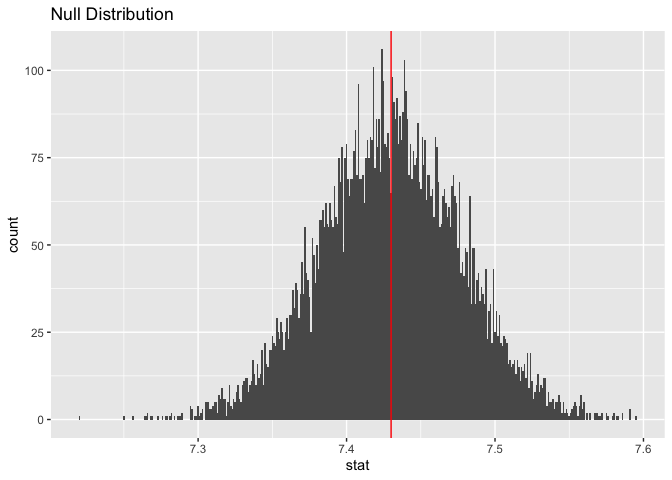
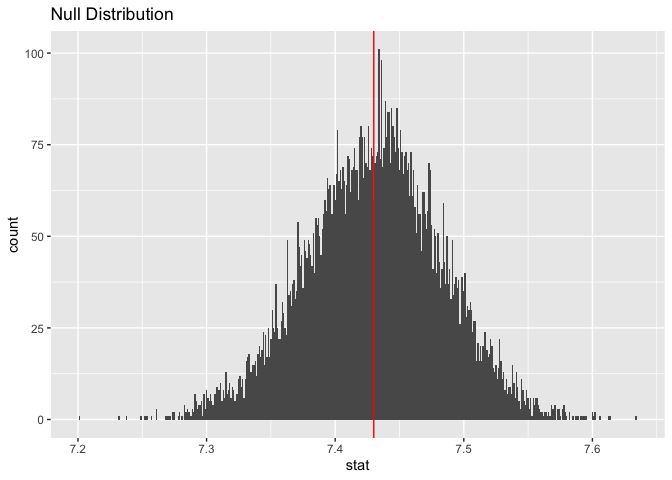
up to 7

diff --git a/lab-12.md b/lab-12.md
@@ -112,7 +112,7 @@ samples easily. The observations are independent, I think.
 
 ``` r
 set.seed(1232)
-boot_df <- data %>% 
+boot_df <- ncbirths_white %>% 
   specify(respons = weight) %>% 
   hypothesize(null = "point", mu = 7.43) %>% 
   generate(reps = 10000, type  = "bootstrap") %>% 
@@ -123,7 +123,7 @@ glimpse(boot_df)
     ## Rows: 10,000
     ## Columns: 2
     ## $ replicate <int> 1, 2, 3, 4, 5, 6, 7, 8, 9, 10, 11, 12, 13, 14, 15, 16, 17, 1…
-    ## $ stat      <dbl> 7.53365, 7.47945, 7.37724, 7.37932, 7.50480, 7.38918, 7.5552…
+    ## $ stat      <dbl> 7.400042, 7.356289, 7.462143, 7.377507, 7.431695, 7.368221, …
 
 Now, let’s plot the graph.
 
@@ -136,7 +136,8 @@ ggplot(data = boot_df, mapping = aes(x = stat)) +
 
 ![](lab-12_files/figure-gfm/plotdistr-1.png)<!-- -->
 
-It seems to be pretty normally distributed, and centered around 7.43.
+It seems to be pretty normally distributed (or a little left skewed),
+and centered around 7.43.
 
 ``` r
 boot_df %>% 
@@ -147,7 +148,7 @@ boot_df %>%
     ## # A tibble: 1 × 2
     ##   lower uppter
     ##   <dbl>  <dbl>
-    ## 1  7.34   7.52
+    ## 1  7.32   7.53
 
 ``` r
 boot_df %>% 
@@ -157,13 +158,49 @@ boot_df %>%
     ## # A tibble: 1 × 1
     ##   p_value
     ##     <dbl>
-    ## 1  0.0002
+    ## 1  0.0007
 
-It seems like the p-value is 0.0002. There is very few instances in the
+It seems like the p-value is 0.0007. There is very few instances in the
 null distribution that we see a difference as large as the one we
 observed in the current dataset. The null’s mean is 7.43, the observed
 mean is 7.25, which is a 0.18 difference. In our 10,000 bootstrap
-results, there was not one instance where they had a bigger than 0.18
+results, there were few instances where they had a bigger than 0.18
 difference. So, it is very unlikely to see an instance as extreme as
 ours. Thus, we conclude that the weight of White babies in NC in 2004 is
 significantly lighter than the White babies in 1995.
+
+### Exercise 5
+
+``` r
+boxplot(data$weight ~ data$habit, data = data,
+        col = c("skyblue", "lightgreen"))
+```
+
+![](lab-12_files/figure-gfm/boxplot-1.png)<!-- -->
+
+From the boxplot, we see that the weight of the babies whose mothers
+were nonsmokers on average was heavier than that of the babies whose
+mothers were smokers.
+
+### Exercise 6
+
+``` r
+ncbirths_clean <- data %>% 
+  filter(!is.na(habit), !is.na(weight))
+```
+
+It seems like there is only one missing value.
+
+### Exercise 7
+
+``` r
+ncbirths_clean %>% 
+  group_by(habit) %>% 
+  summarize(mean_weight = mean(weight))
+```
+
+    ## # A tibble: 2 × 2
+    ##   habit     mean_weight
+    ##   <fct>           <dbl>
+    ## 1 nonsmoker        7.14
+    ## 2 smoker           6.83
